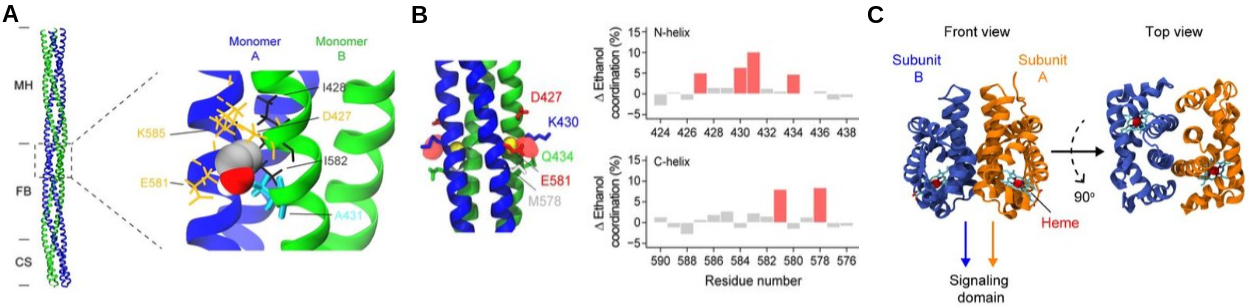
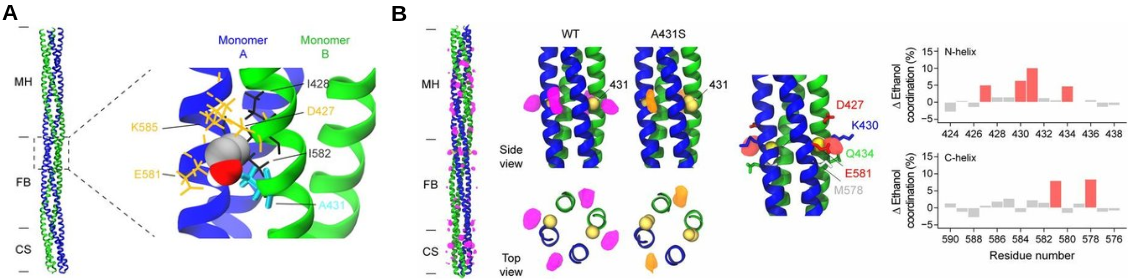
Add new project entries with assets and polish descriptions/tags
Adds GPT-2 text classifier, protein function prediction, BioCanvas,
lung cancer RNA-seq, and DNA sensing project entries with their
figures, replaces stale simulation/signal-transduction assets, and
refines existing project descriptions and tags across projects.yaml.

diff --git a/frontend/src/style.css b/frontend/src/style.css
@@ -422,14 +422,14 @@ a:hover {
 
 .project-section-below {
   display: flex;
-  flex-wrap: wrap;
-  justify-content: center;
+  flex-direction: column;
+  align-items: center;
   gap: 1.5rem;
   margin-top: 1.5rem;
 }
 
 .project-section-below .project-section-figure {
-  flex: 1 1 320px;
+  width: 100%;
   max-width: 100%;
 }
 
